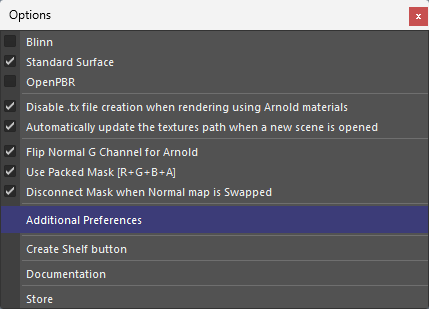
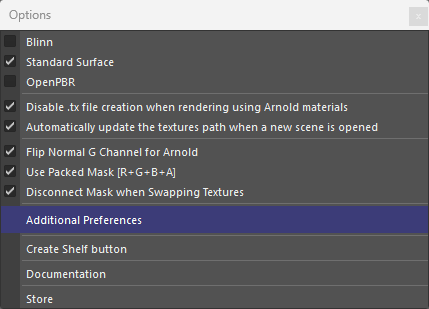
updated docs
updated docs

Changed region(s): [[0.3333, 0.6117, 0.6364, 0.6408], [0.9394, 0.0, 1.0, 0.0874], [0.0, 0.0291, 0.1212, 0.0583]]

diff --git a/docs/Batch Material Creation/Breakdown.md b/docs/Batch Material Creation/Breakdown.md
@@ -236,10 +236,25 @@ If a texture map was missing when you first created a material—or if you updat
 
 The Swap Texture feature allows you to instantly swap texture maps *(such as Albedo, Normal, or Mask maps)* on materials already assigned in your scene—without breaking shader connections or needing to rebuild your material network from scratch.
 
+- This is an feature added so you can better view your normal map on your actual geo to make any necessary adjustments.
+
 <figure style="text-align: center;">
     <img src="../images/Batch_Material_Creation_Swap_1.gif" class="img-medium" alt="Batch_Material_Creation_1">
     <figcaption><span style="color:rgba(22, 165, 110, 1);">Swapping Albedo with Normal textures</span></figcaption>
 </figure>
+
+
+
+- Sometimes when swapping, the Mask may be in the way of you evaluating your objects. That's why when swapping, if the <span style="color:rgb(71, 187, 119);">Disconnect Mask when Swapping Textures</span> checkbox *(in the Options Menu)* is checked, the tool will automatically do that. 
+    * Swapping back will re-connect your mask to your materials *(this won't happen if the checkbox is unchecked)*. 
+
+![Batch Exporter Window](images/BMC_swap_textures_checkbox_1.png){ .img-medium .img-centered } 
+
+<figure style="text-align: center;">
+    <img src="../images/BMC_Swapping_Textures_Mask_1.gif" class="img-medium" alt="Batch_Material_Creation_1">
+    <figcaption><span style="color:rgba(22, 165, 110, 1);">Mask Behavior when Swapping</span></figcaption>
+</figure>
+
 
 ??? Failure "Swap Fail"
     * If you are missing any of your source texture files you will get a message to inform you. 
@@ -301,7 +316,7 @@ The Swap Texture feature allows you to instantly swap texture maps *(such as Alb
 
 <figure style="text-align: center;">
     <img src="../images/Batch_Material_UsePackedRGBA_1.gif" class="img-medium" alt="Batch_Material_Creation_1">
-    <figcaption><span style="color:rgba(22, 165, 110, 1);">.Enabling/Disabling Mask Support</span></figcaption>
+    <figcaption><span style="color:rgba(22, 165, 110, 1);">Enabling/Disabling Mask Support</span></figcaption>
 </figure>
 
 ### 6. Disconnect Mask when normal map is swapped

diff --git a/docs/Rename Tool/index.md b/docs/Rename Tool/index.md
@@ -3,7 +3,7 @@
 ## <span style="color:rgba(25, 214, 110);">**Intro**</span>
 
 
-![Rename Tool Main](images/Rename_Tool_main.jpg)
+![Rename Tool Main](images/Rename_Tool_Main_1.png)
 
 ??? Tip "Maya Versions"
     *Tested in Maya 2022-2027*
